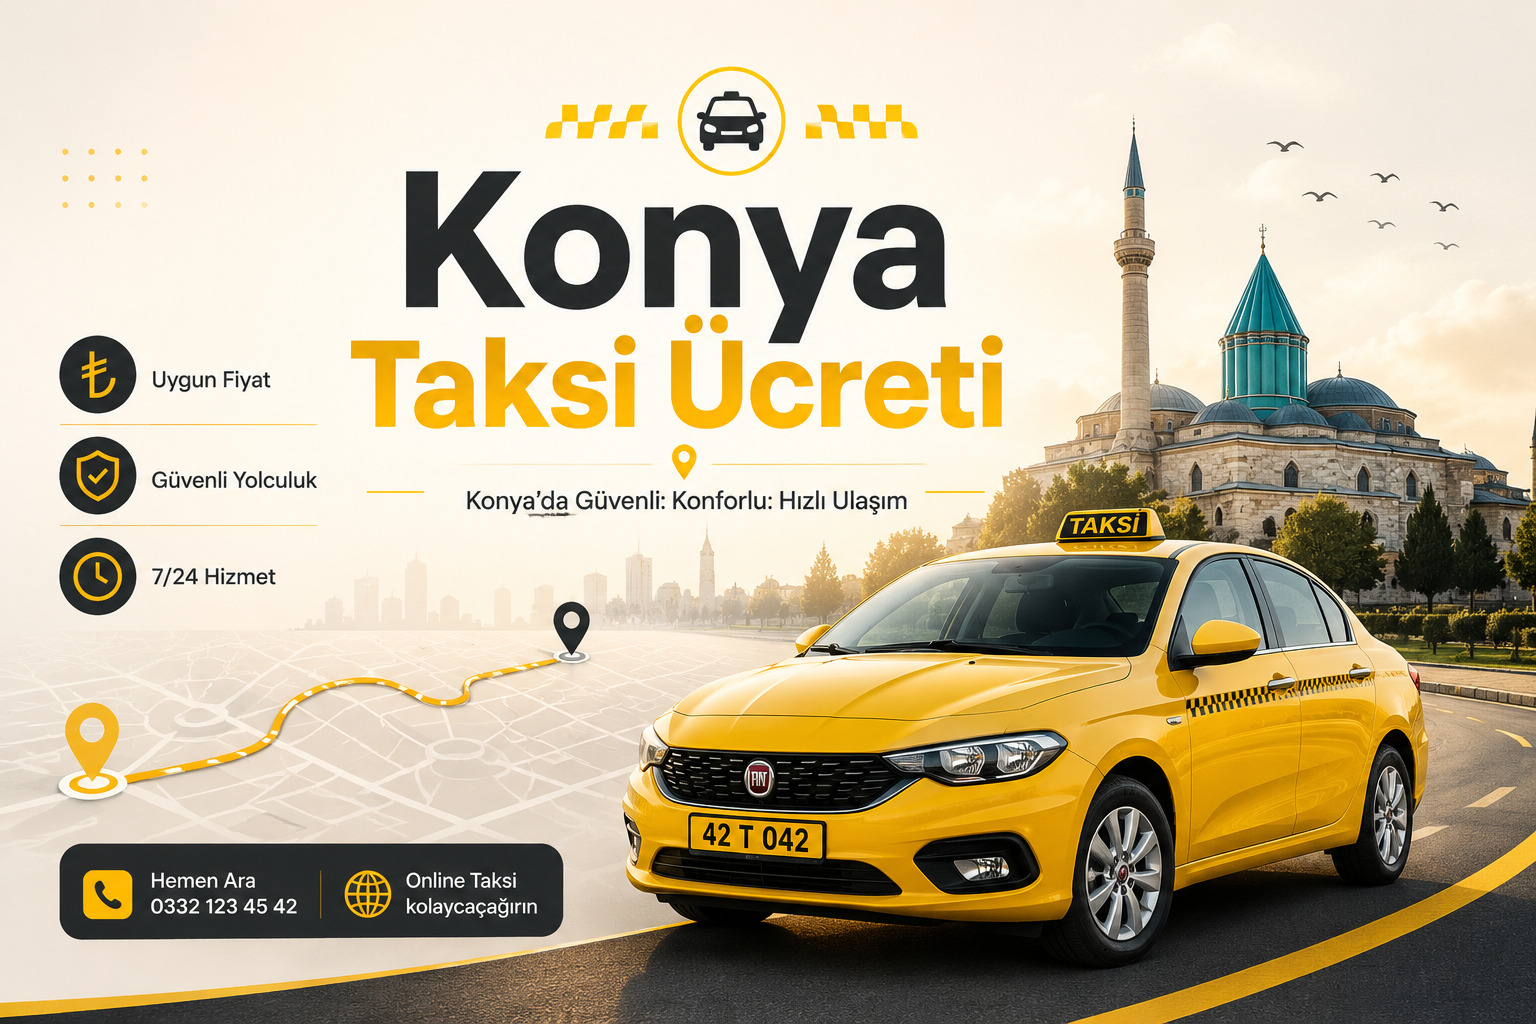
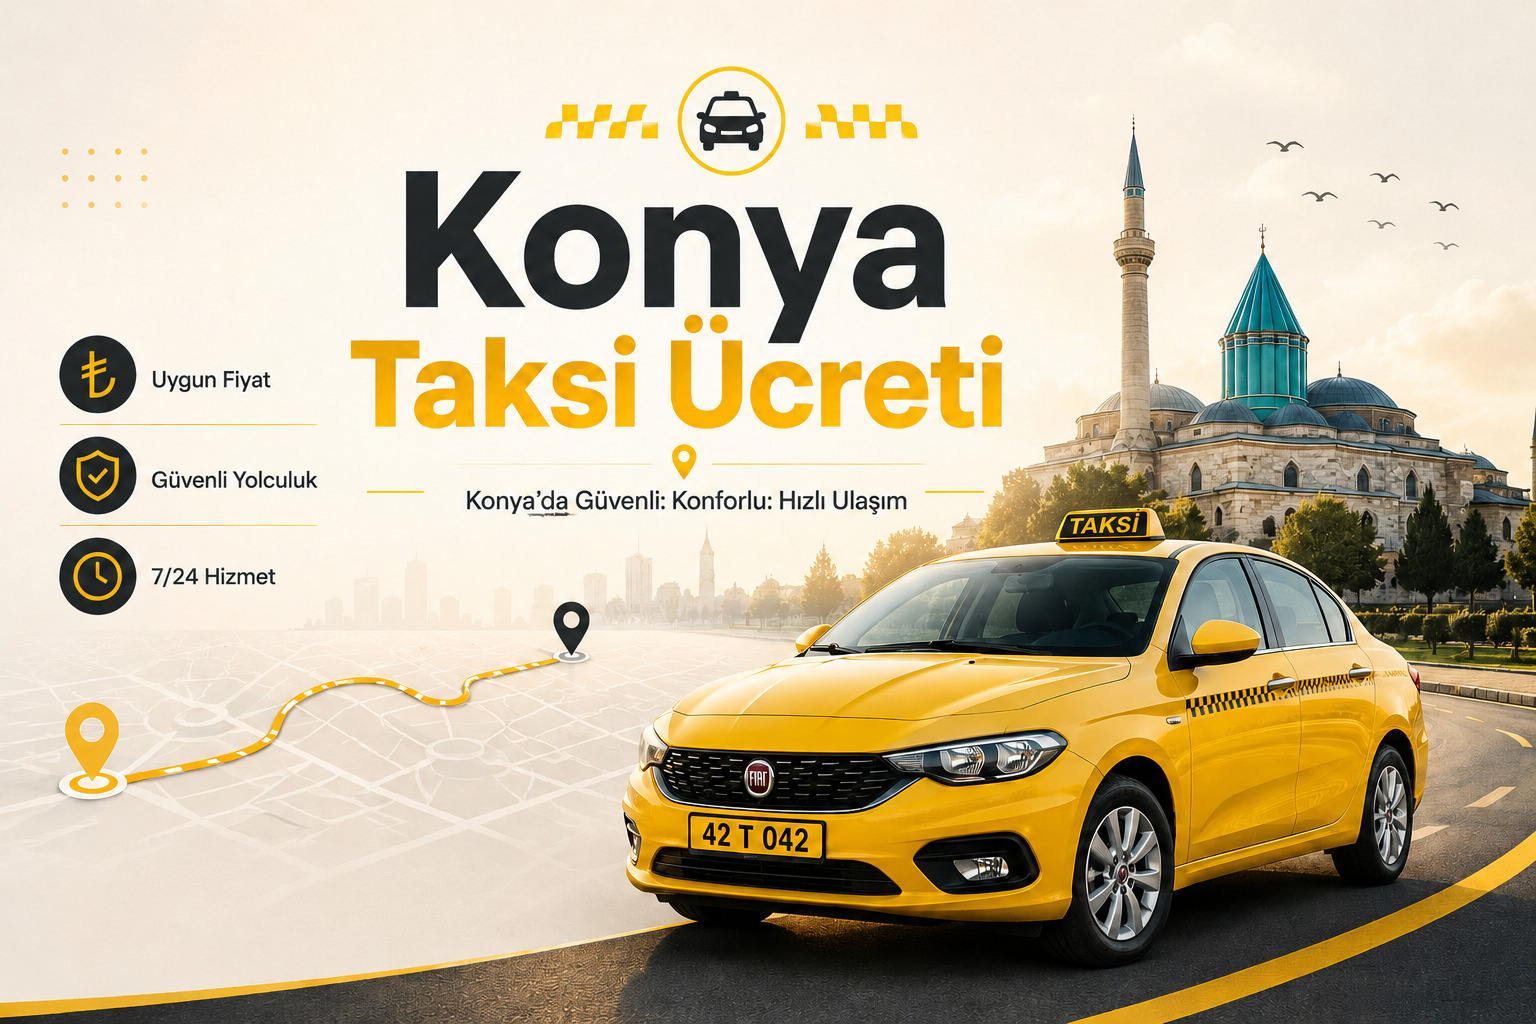
Update Konya article heading and image

diff --git a/components/KonyaFareArticle.tsx b/components/KonyaFareArticle.tsx
@@ -9,7 +9,7 @@ import { canonical, site } from '@/src/data/site';
 const city = taxiFareBySlug.konya!;
 const path = '/konya-taksi-ucreti/';
 const seoTitle = 'Konya Taksi Ücreti 2026: Güncel Açılış ve Fiyatı Hesaplama';
-const h1 = 'Konya Taksi Ücreti 2026: Güncel Tarife ve Hesaplama';
+const h1 = 'Konya Taksi Ücreti Hesaplama 2026';
 const description = 'Konya taksi ücreti hesaplama aracıyla mesafeye göre tahmini fiyatı öğrenin. 2026 açılış, kilometre ve indi-bindi tarifesini inceleyin.';
 const exampleDistances = [1, 2, 3, 4, 5, 7, 10, 15, 20, 25, 30, 40, 50] as const;
 
